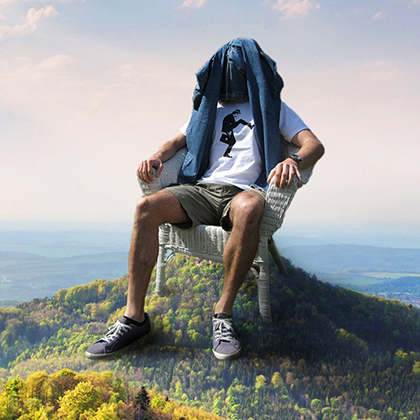
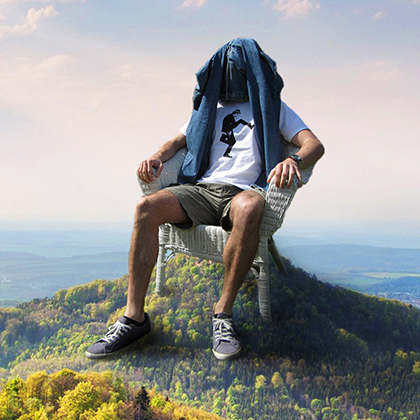
progressive compressed profilepic

diff --git a/index.html b/index.html
@@ -39,7 +39,7 @@
 
   <table class="avatarTopRight" id="top">
     <tr>
-      <td><a href="./profile.html"><img src="./img/profilepic.jpg" width="100"
+      <td><a href="./profile.html"><img src="./img/profilepic-compressed.jpg" width="100"
             alt="Guy with pants on head."></a><br><sup>Who am I?</sup></td>
     </tr>
   </table>
